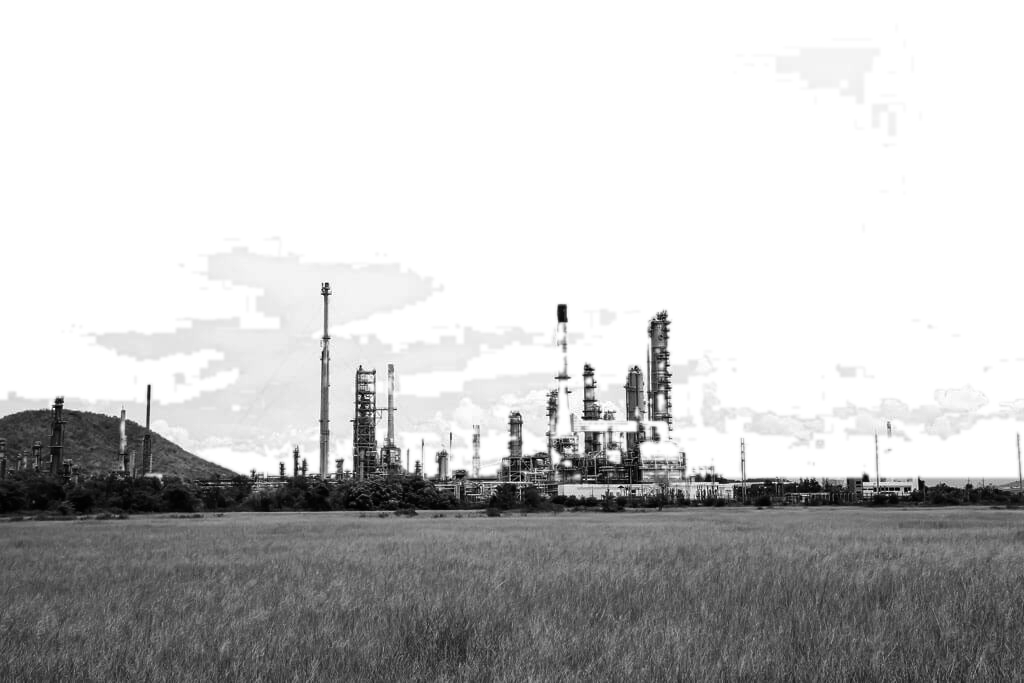
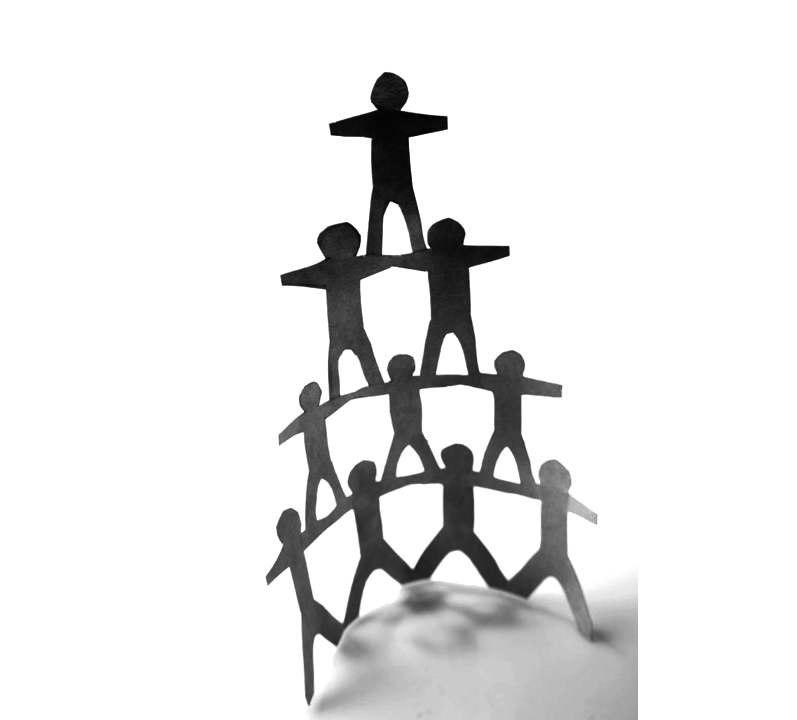
Conhecimento: pirâmide de bonecos de papel, espelhada e inteira, no lugar da refinaria (trama da casa, gama 2,2)

diff --git a/index.html b/index.html
@@ -209,12 +209,10 @@ body>*{position:relative;z-index:1}
 /* 22/09: «quero que os desenhos se encontrem», mas «nao e para avancar, e so para
    nao ter gap»: a grade nao tem vao, e a foto comeca exatamente onde o esquema
    acaba, sem sobrepor nem esfumar. */
-.ar-foto{position:relative;min-height:300px;overflow:hidden;
-  /* 22/09: esfumada da direita para a esquerda, para nao haver divisao com o diagrama */
-  -webkit-mask-image:linear-gradient(to right,transparent 0,#000 45%);mask-image:linear-gradient(to right,transparent 0,#000 45%)}
+.ar-foto{position:relative;min-height:300px;overflow:hidden}
 /* a foto da vaga (foto.py: trama da casa pelo motor, com rastro do mouse),
    cobrindo a vaga: so os lados sao cortados */
-.ar-foto img,.af-gl{position:absolute;inset:0;width:100%;height:100%;display:block;object-fit:cover;object-position:60% 50%}
+.ar-foto img,.af-gl{position:absolute;inset:0;width:100%;height:100%;display:block;object-fit:cover}
 .ar-foto.gl-on img{visibility:hidden}
 .ar-svg{display:block;width:100%;height:auto;overflow:visible}
 .ar-svg{position:relative}
@@ -2552,7 +2550,7 @@ body>*{position:relative;z-index:1}
 <li class="ar-item ar-item--i"><a href="estudos-pesquisa.html">Estudos e pesquisa aplicada</a><span class="ar-normas"><span>Nota técnica</span><span>Observatório setorial</span><span>EUDR</span></span></li>
 </ul>
   </div>
-  <div class="ar-foto" aria-hidden="true"><img src="img/conhecimento-foto-bayer.webp?v=3" data-lum="img/conhecimento-foto-lum.webp?v=3" alt="" width="1024" height="683" loading="lazy" decoding="async"></div>
+  <div class="ar-foto" aria-hidden="true"><img src="img/conhecimento-foto-bayer.webp?v=4" data-lum="img/conhecimento-foto-lum.webp?v=4" alt="" width="797" height="720" loading="lazy" decoding="async"></div>
   </div>
 </section>
 
@@ -3723,9 +3721,9 @@ document.querySelectorAll('.rv').forEach(function(e){ io.observe(e); });
     var im = m.querySelector('img'); if(!im) return;
     ditherVivo({raiz:m, planos:[{el:m, lum:im.getAttribute('data-lum')}], classeCanvas:'ar-gl', revelar:'visivel',
       cores:[[21.2,50.9,80.6],[24.2,56.2,88.1],[103.0,146.1,189.4],[250,249,245]], pincel:.7});
-    /* a foto da refinaria, no terco direito (ancora X 0,60: as torres no meio) */
+    /* a foto do terco direito (foto.py; ja sai na proporcao da vaga) */
     var f = document.querySelector('.ar-foto'), fi = f && f.querySelector('img');
-    if(f && fi) ditherVivo({raiz:f, planos:[{el:f, lum:fi.getAttribute('data-lum'), ax:.60}], classeCanvas:'af-gl', revelar:'visivel',
+    if(f && fi) ditherVivo({raiz:f, planos:[{el:f, lum:fi.getAttribute('data-lum')}], classeCanvas:'af-gl', revelar:'visivel',
       cores:[[21.2,50.9,80.6],[24.2,56.2,88.1],[103.0,146.1,189.4],[250,249,245]], pincel:.7});
   })();
   /* ---------------- fim CONHECIMENTO manchas ---------------- */

diff --git a/_ferramentas/arcos/foto.py b/_ferramentas/arcos/foto.py
@@ -1,67 +1,62 @@
 # -*- coding: utf-8 -*-
 """A foto do terco direito da secao «Conhecimento» (22/09/2026).
 
-Refinaria entre campo e ceu com nuvens. Quinta foto da vaga: barquinhos de papel
-(tres versoes) e paginas de revista em leque foram recusados pelo Leandro.
+Piramide de bonecos de papel, de maos dadas. Sexta foto da vaga: barquinhos de
+papel (tres versoes), paginas de revista em leque e refinaria foram recusados
+pelo Leandro.
 
     python _ferramentas/arcos/foto.py
 
-ORIGEM. O cru fica em Ideal Metrics/_tingir-fotos/FOTOS/refinaria-campo-ceu.jpg
-(1024 x 683), como manda a regra da casa.
+ORIGEM. O cru fica em Ideal Metrics/_tingir-fotos/FOTOS/piramide-bonecos-papel.jpg
+(480 x 720, vertical), como manda a regra da casa.
 
-TRAMA DA CASA, com GAMA 1,4 antes da curva do shader: com 1,0 o ceu e o campo
-ficam ralos; com 1,9 as nuvens escuras pesam. Com 1,4 aparecem as nuvens, as
-torres e o campo em trama media.
+ESPELHADA, a pedido do Leandro.
 
-SEM CEU (22/09): «corte as nuvens do ceu». O enquadramento fica (recortar o alto
-obrigaria o cover a AMPLIAR a foto); o que muda e o ceu, que vira creme. Ceu =
-acima de y HORIZONTE e azulado (B - R > 25) ou claro e um pouco azulado (lum > 0,72 e
-B - R > 8: a chaminé branca, neutra, fica), com a mascara
-suavizada; as torres, cinzentas e mais escuras, ficam.
+INTEIRA NA VAGA. A foto e vertical (2:3) e a vaga quase quadrada (~436 x 394 css
+numa tela de 1440): no cover ela perderia a cabeca do boneco de cima e a base.
+Por isso a luminancia sai com fundo branco na PROPORCAO DA VAGA (436:394), com a
+piramide inteira no meio; o cover da pagina entao nao corta nada. O fundo da foto
+ja e branco (mediana 1,0), e branco vira creme na trama: sem borda nenhuma.
 
-ENCAIXE. A pagina faz object-fit cover (vaga ~436 x 394 css numa tela de 1440;
-a foto e 1,5:1, entao so os lados sao cortados). Ancora X 0,60 (monta.py): o
-conjunto principal de torres fica no meio da vaga.
+TRAMA DA CASA, com lum = (lum / 0,96) ^ GAMA e GAMA 2,2: com 1,0 os bonecos de
+baixo, azul-claro, sumiam; com 1,5 ainda falhavam; com 2,2 aparecem todos.
 
-SAIDA em img/, para o motor ditherVivo, na largura do original (sem ampliar):
+SAIDA em img/, para o motor ditherVivo:
   conhecimento-foto-lum.webp     luminancia, sem perda
   conhecimento-foto-bayer.webp   a mesma ja tramada, para quem nao tem WebGL"""
 
 import os, sys
 import numpy as np
-from PIL import Image, ImageFilter
+from PIL import Image, ImageOps
 
 AQUI = os.path.dirname(os.path.abspath(__file__))
 sys.path.insert(0, AQUI)
 import manchas   # a curva de tom e a rampa
 
 SITE = os.path.dirname(os.path.dirname(AQUI))
-CRU = os.path.join(os.path.dirname(SITE), '_tingir-fotos', 'FOTOS', 'refinaria-campo-ceu.jpg')
-GAMA = 1.4
-HORIZONTE = 478
+CRU = os.path.join(os.path.dirname(SITE), '_tingir-fotos', 'FOTOS', 'piramide-bonecos-papel.jpg')
+GAMA = 2.2
+VAGA = 436 / 394          # largura / altura da vaga numa tela de 1440
 
 
 def main():
-    cor = Image.open(CRU).convert('RGB')
-    im = cor.convert('L')
-    a = np.asarray(cor).astype(np.float64)
-    lum = np.asarray(im, dtype=np.float64) / 255
-    yy0 = np.arange(im.height)[:, None]
-    ceu = ((a[..., 2] - a[..., 0] > 25) | ((lum > .72) & (a[..., 2] - a[..., 0] > 8))) & (yy0 < HORIZONTE)
-    ceu = np.asarray(Image.fromarray((ceu * 255).astype(np.uint8)).filter(ImageFilter.GaussianBlur(1.2)),
-                     dtype=np.float64) / 255
-    lum = lum ** GAMA
-    lum = lum * (1 - ceu) + ceu
+    im = ImageOps.mirror(Image.open(CRU).convert('L'))
+    l = np.clip(np.asarray(im, dtype=np.float64) / 255 / .96, 0, 1) ** GAMA
+    h = im.height
+    w = round(h * VAGA)
+    lum = np.ones((h, w))
+    x0 = (w - im.width) // 2
+    lum[:, x0:x0 + im.width] = l
     img = os.path.join(SITE, 'img')
     Image.fromarray((lum * 255).round().astype(np.uint8), 'L').save(
         os.path.join(img, 'conhecimento-foto-lum.webp'), lossless=True)
     m4 = np.array([[0, 8, 2, 10], [12, 4, 14, 6], [3, 11, 1, 9], [15, 7, 13, 5]])
-    yy, xx = np.mgrid[0:im.height, 0:im.width]
+    yy, xx = np.mgrid[0:h, 0:w]
     T = (m4[yy % 4, xx % 4] + .5) / 16
     k = np.clip(np.floor(manchas.tom(lum) * 3 + T), 0, 3).astype(int)
     Image.fromarray(manchas.CORES[k].round().astype(np.uint8), 'RGB').save(
         os.path.join(img, 'conhecimento-foto-bayer.webp'), lossless=True)
-    print('conhecimento-foto: %d x %d, gama %.1f' % (im.width, im.height, GAMA))
+    print('conhecimento-foto: %d x %d, espelhada, gama %.1f' % (w, h, GAMA))
 
 
 if __name__ == '__main__':

diff --git a/_ferramentas/arcos/monta.py b/_ferramentas/arcos/monta.py
@@ -44,12 +44,10 @@ CSS = r"""
 /* 22/09: «quero que os desenhos se encontrem», mas «nao e para avancar, e so para
    nao ter gap»: a grade nao tem vao, e a foto comeca exatamente onde o esquema
    acaba, sem sobrepor nem esfumar. */
-.ar-foto{position:relative;min-height:300px;overflow:hidden;
-  /* 22/09: esfumada da direita para a esquerda, para nao haver divisao com o diagrama */
-  -webkit-mask-image:linear-gradient(to right,transparent 0,#000 45%);mask-image:linear-gradient(to right,transparent 0,#000 45%)}
+.ar-foto{position:relative;min-height:300px;overflow:hidden}
 /* a foto da vaga (foto.py: trama da casa pelo motor, com rastro do mouse),
    cobrindo a vaga: so os lados sao cortados */
-.ar-foto img,.af-gl{position:absolute;inset:0;width:100%;height:100%;display:block;object-fit:cover;object-position:60% 50%}
+.ar-foto img,.af-gl{position:absolute;inset:0;width:100%;height:100%;display:block;object-fit:cover}
 .ar-foto.gl-on img{visibility:hidden}
 .ar-svg{display:block;width:100%;height:auto;overflow:visible}
 .ar-svg{position:relative}
@@ -128,9 +126,9 @@ MOTOR = r"""  /* ---------------- CONHECIMENTO: as manchas por tras dos aros ---
     var im = m.querySelector('img'); if(!im) return;
     ditherVivo({raiz:m, planos:[{el:m, lum:im.getAttribute('data-lum')}], classeCanvas:'ar-gl', revelar:'visivel',
       cores:[[21.2,50.9,80.6],[24.2,56.2,88.1],[103.0,146.1,189.4],[250,249,245]], pincel:.7});
-    /* a foto da refinaria, no terco direito (ancora X 0,60: as torres no meio) */
+    /* a foto do terco direito (foto.py; ja sai na proporcao da vaga) */
     var f = document.querySelector('.ar-foto'), fi = f && f.querySelector('img');
-    if(f && fi) ditherVivo({raiz:f, planos:[{el:f, lum:fi.getAttribute('data-lum'), ax:.60}], classeCanvas:'af-gl', revelar:'visivel',
+    if(f && fi) ditherVivo({raiz:f, planos:[{el:f, lum:fi.getAttribute('data-lum')}], classeCanvas:'af-gl', revelar:'visivel',
       cores:[[21.2,50.9,80.6],[24.2,56.2,88.1],[103.0,146.1,189.4],[250,249,245]], pincel:.7});
   })();
   /* ---------------- fim CONHECIMENTO manchas ---------------- */
@@ -185,8 +183,8 @@ def secao(L):
         svg(L),
         arcos.lista(),
         '  </div>',
-        '  <div class="ar-foto" aria-hidden="true"><img src="img/conhecimento-foto-bayer.webp?v=3" '
-        'data-lum="img/conhecimento-foto-lum.webp?v=3" alt="" width="1024" height="683" loading="lazy" decoding="async"></div>',
+        '  <div class="ar-foto" aria-hidden="true"><img src="img/conhecimento-foto-bayer.webp?v=4" '
+        'data-lum="img/conhecimento-foto-lum.webp?v=4" alt="" width="797" height="720" loading="lazy" decoding="async"></div>',
         '  </div>',
         '</section>',
     ])
